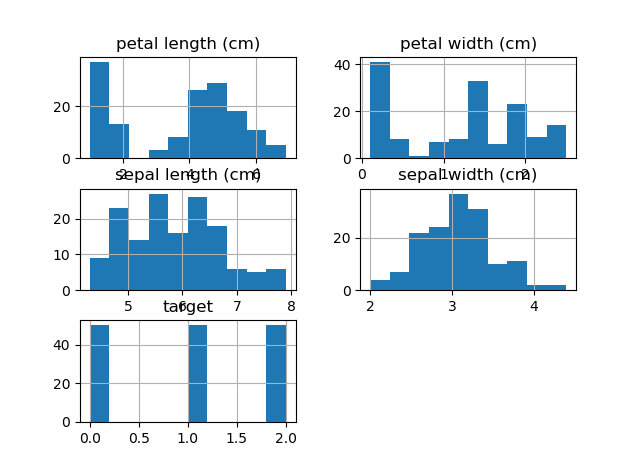
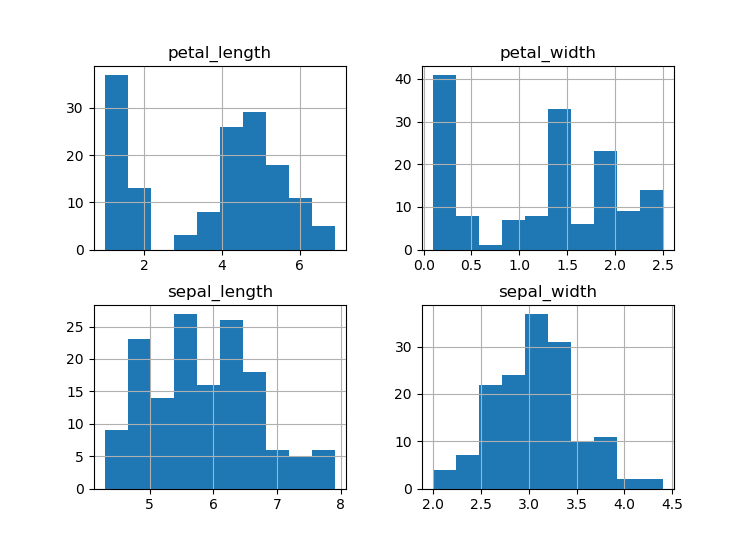
track the files on the disk to match the data in VSC, update to the comments in Readme

diff --git a/Dataset.py b/Dataset.py
@@ -10,16 +10,23 @@ import pandas as pd
 from pandas.tools.plotting import scatter_matrix
 #
 import matplotlib.pyplot as plt
+# To download iris dataset in the form of a Pandas DataFrame import the seaborn library
 import seaborn as sns 
 
 # Load Iris dataset using sklearn
 from sklearn.datasets import load_iris
 
-#Define Iris data as Panda Dataframe
+# Define Iris data as Panda Dataframe
 seadf = sns.load_dataset('iris')
 
-#Print first 20 rows to see the format of data
-print(seadf.head(20))
+# Use shape command to check how many instances(rows) and attributes (columns) the set contains
+print(seadf.shape)
+
+# Use 'Head' and 'Tail commands to print first 20 rows to see the format of data
+print(seadf.head(10))
+print(seadf.tail(10))
+
+#
 
 #To give a statistical summary about the dataset (mean, maximum, minimum and devation figures)
 #Code adopted from https://medium.com/codebagng/basic-analysis-of-the-iris-data-set-using-python-2995618a6342
@@ -36,7 +43,6 @@ print(seadf.groupby('species').max())
 
 # Print the histograms 
 seadf.hist()
-plt.savefig('Figure_1.png')
 plt.show()
 
 # scatter plot matrix

diff --git a/README.md b/README.md
@@ -51,7 +51,8 @@ It is worth noting that dataset is sometimes called Anderson’s Iris data set b
 
 <img width="353" alt="Column_stats" src="https://user-images.githubusercontent.com/47403763/56864216-c2d23b00-69b7-11e9-9f13-9d79d4eb0cea.PNG">
 
-2.3 The Mean, Maximum and Minimum value for each of the species are:
+2.3 The Mean, Maximum and Minimum value for each of the species give us better understanding of the size attributes of each specie:
+
 Mean of each of the species:
 
 <img width="363" alt="Species_Mean" src="https://user-images.githubusercontent.com/47403763/56864233-f745f700-69b7-11e9-92d0-d2c18a6f66ce.PNG">
@@ -74,6 +75,8 @@ Maximum Values for each species:
 There is noticable diagonal grouping of some pairs of attributes. This suggests a high correlation and a predictable relationship.
 
 ![Scatter_Matrix](https://user-images.githubusercontent.com/47403763/56864321-fbbedf80-69b8-11e9-9586-f90ac2b44c5b.png)
+
+
 
 4. Summary
 
